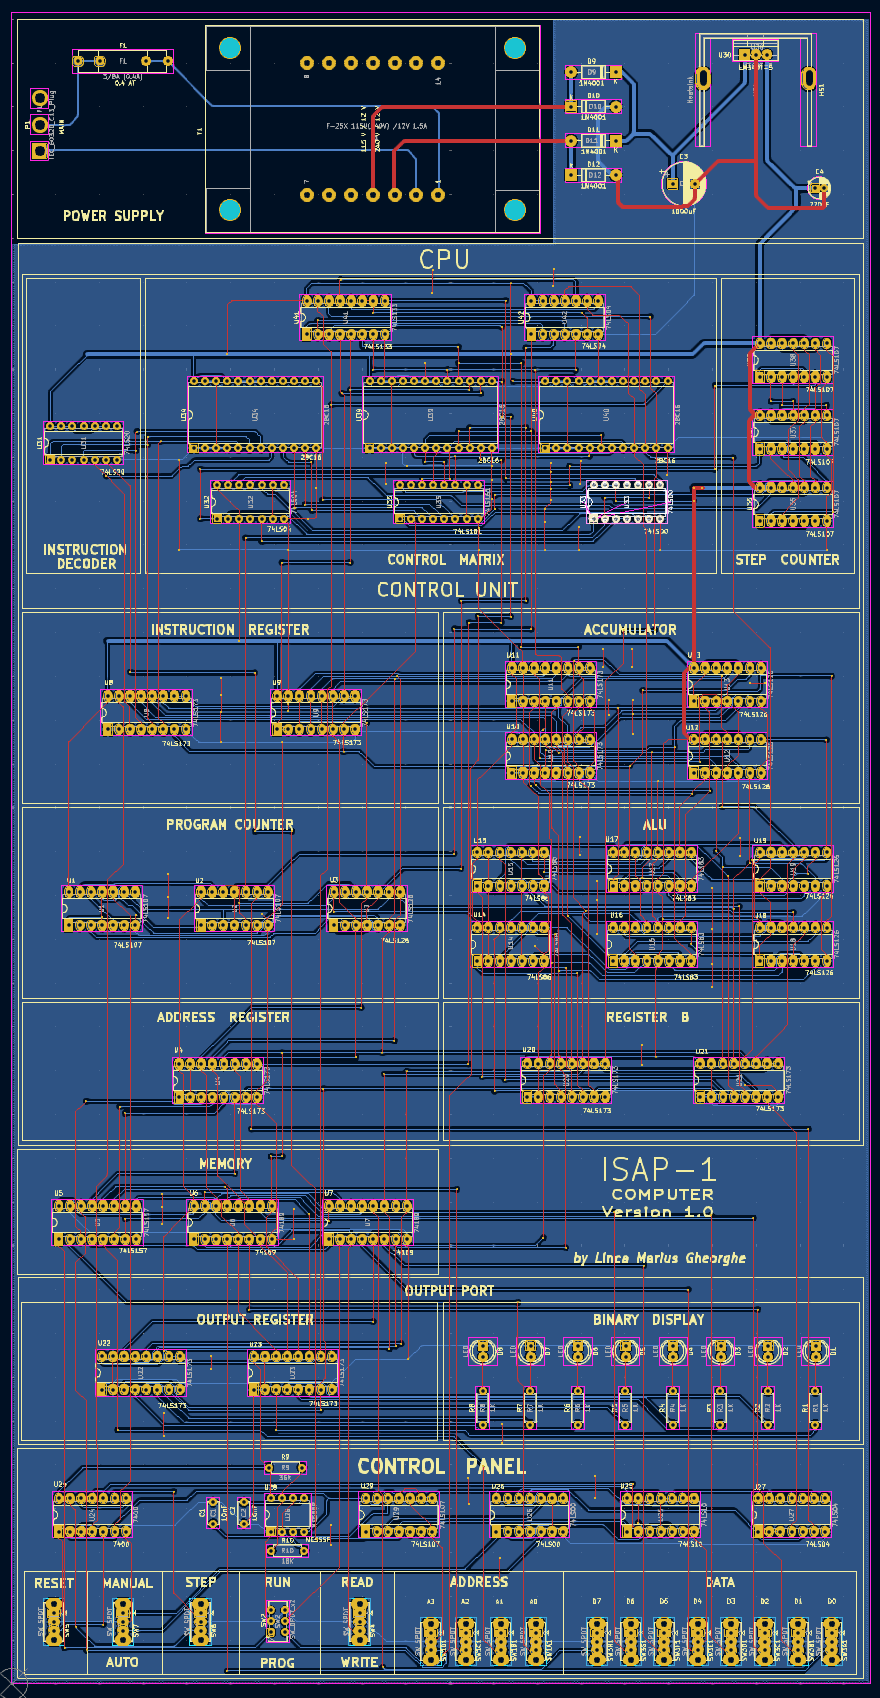
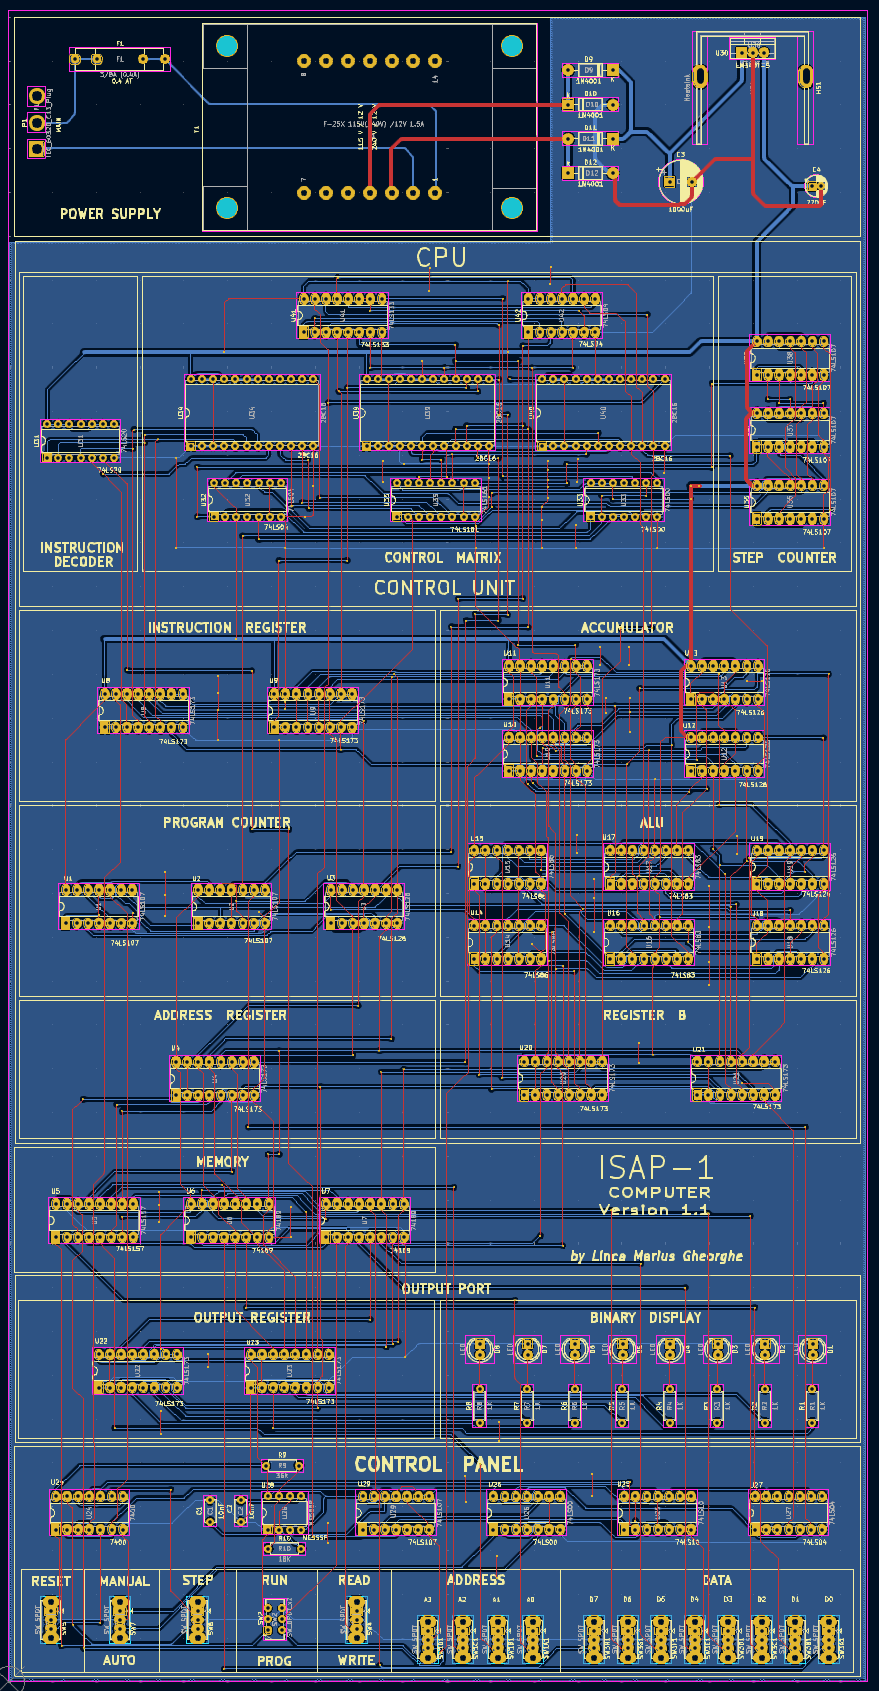
new file:   Pictures/Figure28.png

diff --git a/README.md b/README.md
@@ -383,3 +383,7 @@ The Control Block schematic of the ISAP-1 Model B Version 1.1 Computer is shown 
 This is what the completed PCB looks like for ISAP-1 Model B Version 1.1
 
 ![ Figure 27 ](/Pictures/Figure27.png)
+
+An overview of the PCB is shown in the following figure
+
+![ Figure 28 ](/Pictures/Figure28.png)
